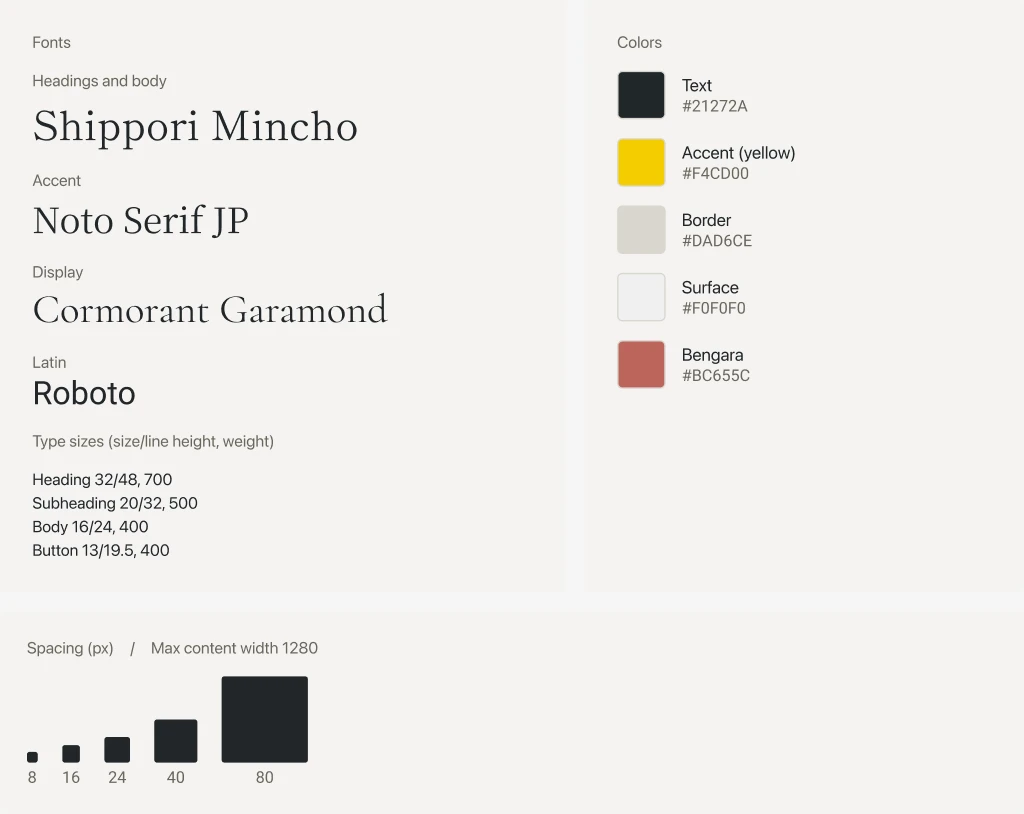
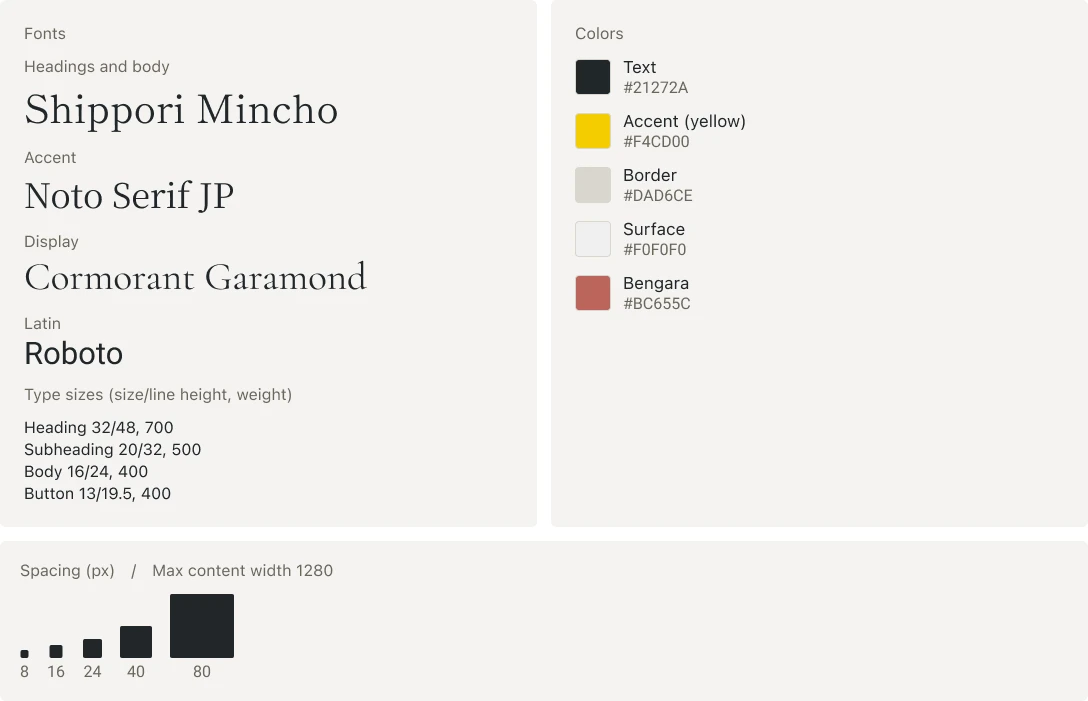
feat(nakahatsu-sy): tall v1/v2 figure (separate layers), DS figure full width, Instagram figure on site and all frames, step 3 heading synced from Figma

diff --git a/app/[locale]/work/nakahatsu-sy/NakahatsuSy.tsx b/app/[locale]/work/nakahatsu-sy/NakahatsuSy.tsx
@@ -213,6 +213,13 @@ const NakahatsuSy: React.FC<{ launched: boolean }> = () => {
               <p key={p} className={body}>{p}</p>
             ))}
           </Row>
+          {/* Process の導入のあとに、Instagram の投稿から見た先方の活動（Figma の Process 直下の図と同じ。PC は横4枚、スマートフォンは2列） */}
+          <div className="flex justify-center">
+            <div className="w-full md:w-[760px]">
+              <Image src={`/work/nakahatsu/ig-posts-${language === 'jp' ? 'jp' : 'en'}-pc.webp`} alt={t('igAlt')} width={1520} height={language === 'jp' ? 487 : 518} className="hidden h-auto w-full md:block" />
+              <Image src={`/work/nakahatsu/ig-posts-${language === 'jp' ? 'jp' : 'en'}-sp.webp`} alt={t('igAlt')} width={654} height={language === 'jp' ? 893 : 981} className="block h-auto w-full md:hidden" />
+            </div>
+          </div>
           {steps.map((s, i) => (
             <div key={s.h} className="flex flex-col gap-10 md:gap-10">
               <div className="flex flex-col md:flex-row md:gap-8">
@@ -271,12 +278,21 @@ const NakahatsuSy: React.FC<{ launched: boolean }> = () => {
                   </div>
                 </div>
               )}
+              {s.fig === 'before-after' && (
+                <div className="flex justify-center">
+                  <div className="w-full overflow-hidden rounded-media bg-surface-muted md:w-[760px]">
+                    <div aria-hidden="true" className="relative h-9 font-space-grotesk text-caption font-bold text-ink-tertiary">
+                      <p className="absolute left-[3.2%] top-3">{t('v1Label')}</p>
+                      <p className="absolute left-[57.4%] top-3">{t('v2Label')}</p>
+                    </div>
+                    <Image src={`/work/nakahatsu/v1-v2-tall-${language === 'jp' ? 'jp' : 'en'}.webp`} alt={t('v1v2TallAlt')} width={1520} height={1444} className="h-auto w-full" />
+                  </div>
+                </div>
+              )}
               {/* 色の図のあとに、ストアのテーマの文字・サイズ・色・余白の図（デザインシステム）。Figma の Step/5 の下と同じ */}
               {s.fig === 'palette' && (
-                <div className="flex justify-center">
-                  <div className="w-full md:w-[760px]">
-                    <Image src={`/work/nakahatsu/design-system-${language === 'jp' ? 'jp' : 'en'}.webp`} alt={t('dsAlt')} width={1024} height={814} className="h-auto w-full" />
-                  </div>
+                <div className="w-full overflow-hidden rounded-media">
+                  <Image src={`/work/nakahatsu/design-system-${language === 'jp' ? 'jp' : 'en'}.webp`} alt={t('dsAlt')} width={1088} height={701} className="h-auto w-full" />
                 </div>
               )}
               {/* 3つの言語: ヒーローの図のあとに、スマートフォン幅の商品ページ（文字の部分）を並べた図を足す。住所・フッターは写さない */}
